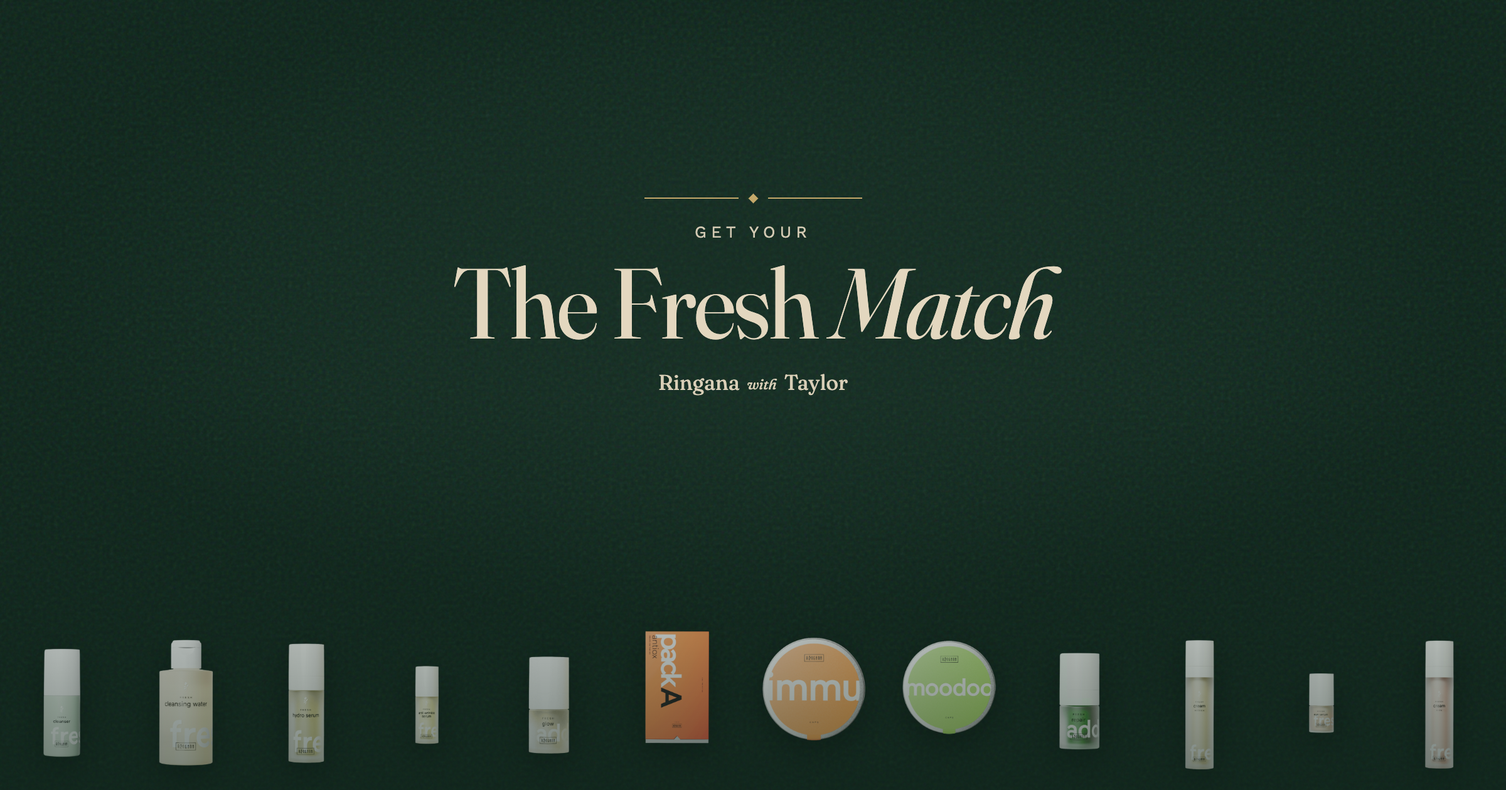
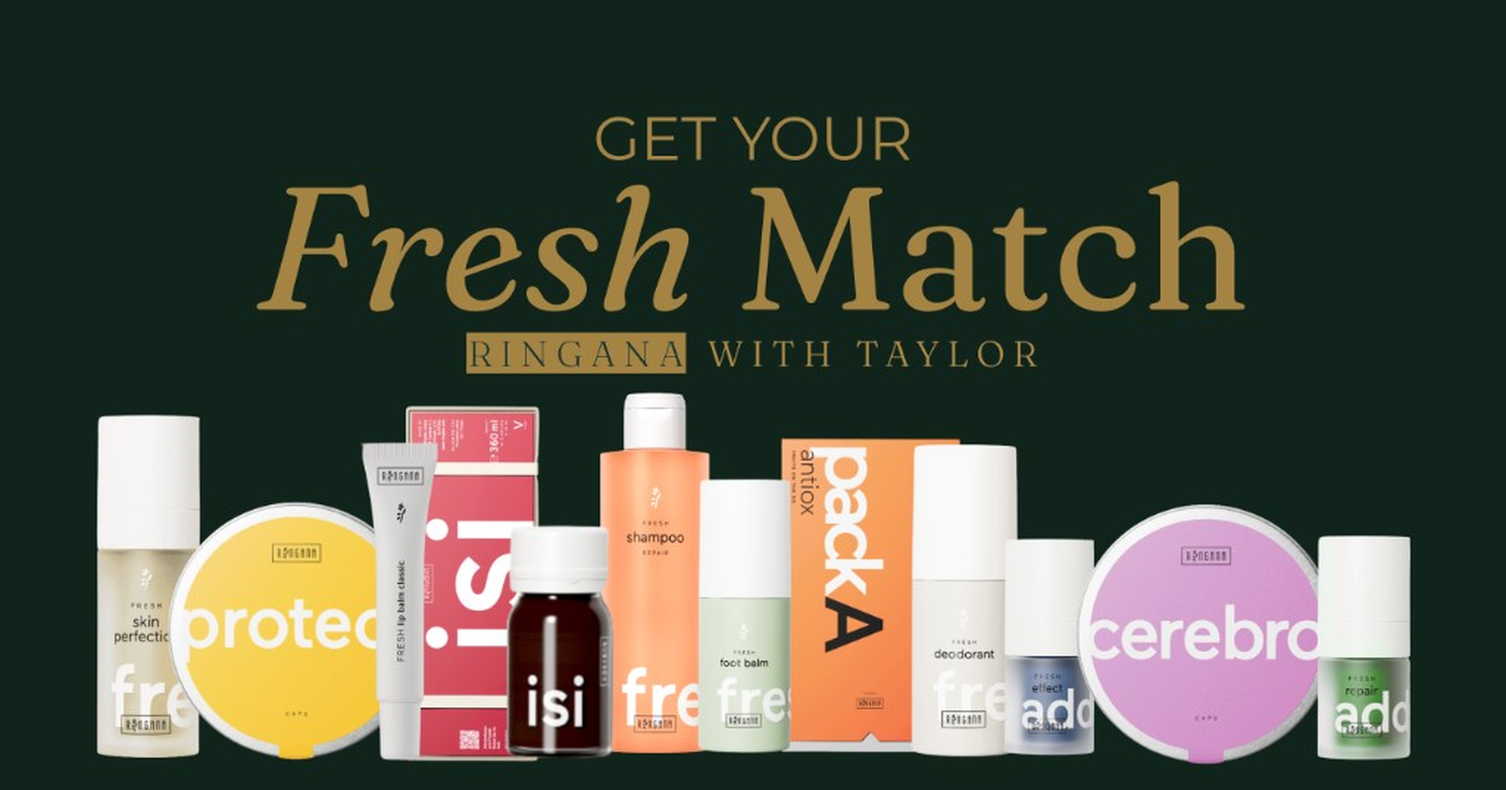
Use Taylor's Canva share image for Open Graph previews.
Upscaled to 1200×630 and pointed meta tags at a new filename for cache busting.

diff --git a/index.html b/index.html
@@ -13,14 +13,14 @@
     <meta property="og:description" content="A two-minute quiz that matches you to Ringana products — with the real actives, how to use them, and links to ringana.com." />
     <meta property="og:type" content="website" />
     <meta property="og:url" content="https://tayrourke.github.io/the-fresh-match/" />
-    <meta property="og:image" content="https://tayrourke.github.io/the-fresh-match/og-fresh-match.png" />
+    <meta property="og:image" content="https://tayrourke.github.io/the-fresh-match/og-fresh-match-canva.png" />
     <meta property="og:image:width" content="1200" />
     <meta property="og:image:height" content="630" />
     <meta property="og:image:alt" content="Get your Fresh Match — Ringana with Taylor" />
     <meta name="twitter:card" content="summary_large_image" />
     <meta name="twitter:title" content="Get your Fresh Match — Ringana with Taylor" />
     <meta name="twitter:description" content="A two-minute quiz that matches you to Ringana products." />
-    <meta name="twitter:image" content="https://tayrourke.github.io/the-fresh-match/og-fresh-match.png" />
+    <meta name="twitter:image" content="https://tayrourke.github.io/the-fresh-match/og-fresh-match-canva.png" />
     <link rel="preconnect" href="https://fonts.googleapis.com" />
     <link rel="preconnect" href="https://fonts.gstatic.com" crossorigin />
     <link rel="preconnect" href="https://assets.flodesk.com" crossorigin />
